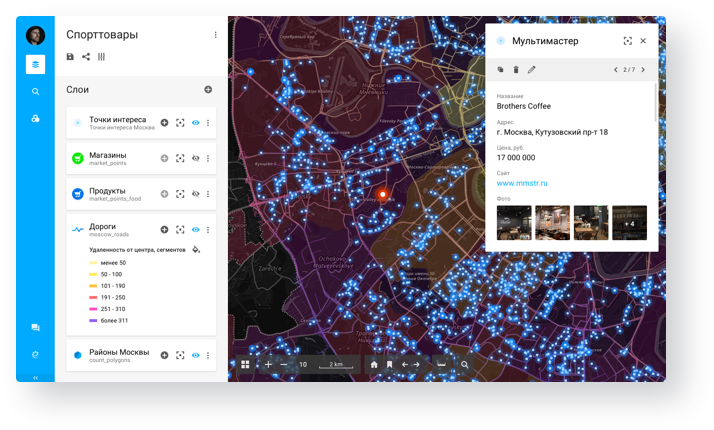
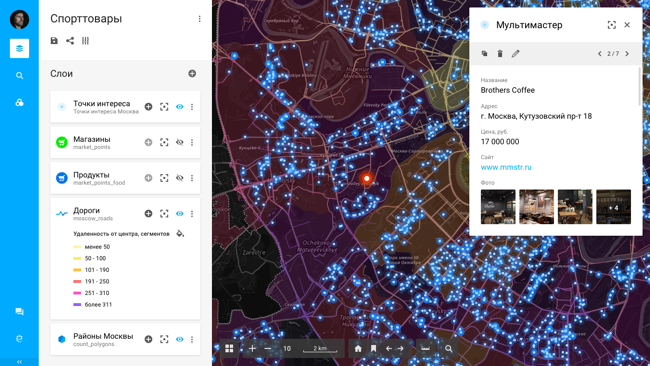
animation evergis online

diff --git a/src/pages/evergisOnline/index.js b/src/pages/evergisOnline/index.js
@@ -13,14 +13,31 @@ import { Footer } from "../../components/EvergisOnlineLongread/Footer/Footer";
 import { HeaderRightSide } from "../../components/EvergisOnlineLongread/HeaderRightSide/HeaderRightSide";
 import { getPixelRatioPropName } from "../../utils/utils";
 
-import screen from "../../img/portfolio/evergisOnline/header/1_app@2x.png";
-import leftCard1 from "../../img/portfolio/evergisOnline/header/2_leftCard-1@2x.png";
-import leftCard2 from "../../img/portfolio/evergisOnline/header/3_leftCard-2@2x.png";
-import leftCard3 from "../../img/portfolio/evergisOnline/header/4_leftCard-3@2x.png";
-import leftCard4 from "../../img/portfolio/evergisOnline/header/5_leftCard-4@2x.png";
-import leftCard5 from "../../img/portfolio/evergisOnline/header/6_leftCard-5@2x.png";
-import rightCard from "../../img/portfolio/evergisOnline/header/7_rightCard@2x.png";
-import point from "../../img/portfolio/evergisOnline/header/8_point@2x.png";
+import patternImg from '../../img/portfolio/evergisOnline/header/pattern.png';
+import appX1 from "../../img/portfolio/evergisOnline/header/app/app.png";
+import appX2 from "../../img/portfolio/evergisOnline/header/app/app@2x.png";
+import appX3 from "../../img/portfolio/evergisOnline/header/app/app@3x.png";
+import leftCard1X1 from "../../img/portfolio/evergisOnline/header/leftCard-1/leftCard-1.png";
+import leftCard1X2 from "../../img/portfolio/evergisOnline/header/leftCard-1/leftCard-1@2x.png";
+import leftCard1X3 from "../../img/portfolio/evergisOnline/header/leftCard-1/leftCard-1@3x.png";
+import leftCard2X1 from "../../img/portfolio/evergisOnline/header/leftCard-2/leftCard-2.png";
+import leftCard2X2 from "../../img/portfolio/evergisOnline/header/leftCard-2/leftCard-2@2x.png";
+import leftCard2X3 from "../../img/portfolio/evergisOnline/header/leftCard-2/leftCard-2@3x.png";
+import leftCard3X1 from "../../img/portfolio/evergisOnline/header/leftCard-3/leftCard-3.png";
+import leftCard3X2 from "../../img/portfolio/evergisOnline/header/leftCard-3/leftCard-3@2x.png";
+import leftCard3X3 from "../../img/portfolio/evergisOnline/header/leftCard-3/leftCard-3@3x.png";
+import leftCard4X1 from "../../img/portfolio/evergisOnline/header/leftCard-4/leftCard-4.png";
+import leftCard4X2 from "../../img/portfolio/evergisOnline/header/leftCard-4/leftCard-4@2x.png";
+import leftCard4X3 from "../../img/portfolio/evergisOnline/header/leftCard-4/leftCard-4@3x.png";
+import leftCard5X1 from "../../img/portfolio/evergisOnline/header/leftCard-5/leftCard-5.png";
+import leftCard5X2 from "../../img/portfolio/evergisOnline/header/leftCard-5/leftCard-5@2x.png";
+import leftCard5X3 from "../../img/portfolio/evergisOnline/header/leftCard-5/leftCard-5@3x.png";
+import rightCardX1 from "../../img/portfolio/evergisOnline/header/rightCard/rightCard.png";
+import rightCardX2 from "../../img/portfolio/evergisOnline/header/rightCard/rightCard@2x.png";
+import rightCardX3 from "../../img/portfolio/evergisOnline/header/rightCard/rightCard@3x.png";
+import pointX1 from "../../img/portfolio/evergisOnline/header/point/point.png";
+import pointX2 from "../../img/portfolio/evergisOnline/header/point/point@2x.png";
+import pointX3 from "../../img/portfolio/evergisOnline/header/point/point@3x.png";
 
 import { ReactComponent as Ic1 } from "../../img/portfolio/evergisOnline/features-icons/ic-1.svg";
 import { ReactComponent as Ic2 } from "../../img/portfolio/evergisOnline/features-icons/ic-2.svg";
@@ -31,7 +48,16 @@ import { ReactComponent as Ic6 } from "../../img/portfolio/evergisOnline/feature
 
 import styles, { EvergisOnlineContainer, FiguresTitle } from "../../styles/evergisOnline";
 
-const images = [screen, leftCard1, leftCard2, leftCard3, leftCard4, leftCard5, rightCard, point];
+const images = [
+  { x1: appX1, x2: appX2, x3: appX3 },
+  { x1: leftCard1X1, x2: leftCard1X2, x3: leftCard1X3 },
+  { x1: leftCard2X1, x2: leftCard2X2, x3: leftCard2X3 },
+  { x1: leftCard3X1, x2: leftCard3X2, x3: leftCard3X3 },
+  { x1: leftCard4X1, x2: leftCard4X2, x3: leftCard4X3 },
+  { x1: leftCard5X1, x2: leftCard5X2, x3: leftCard5X3 },
+  { x1: rightCardX1, x2: rightCardX2, x3: rightCardX3 },
+  { x1: pointX1, x2: pointX2, x3: pointX3 },
+];
 
 const justDoIt = [
   { Icon: Ic1, text: "Создавайте веб-карты" },
@@ -59,16 +85,21 @@ class EvergisOnline extends Component {
   render() {
     const { ratio, animate } = this.state;
     const { location, projectId } = this.props;
+
     const evergisOnline = getProject({ projectId });
     const { longreadImages } = evergisOnline;
+
+    const imagesWithRatio = images.map(img => img[ratio]);
 
     return (
       <>
         <Header
-          images={images}
+          images={imagesWithRatio}
           onLoad={() => this.setState({ animate: true })}
           animate={animate}
-          rightSide={<HeaderRightSide animate={animate} images={images} />}
+          rightSide={<HeaderRightSide animate={animate} images={imagesWithRatio} />}
+          containerClassName={styles.header}
+          backgroundImage={`url(${patternImg})`}
           leftSideClassName={styles.headerLeftSide}
           projectId={projectId}
           location={location}

diff --git a/src/routes/portfolio.js b/src/routes/portfolio.js
@@ -1,10 +1,10 @@
 // portfolio screenshots
-import mspX1 from "../img/portfolio/slide-screenshots/msp/bitmap.png";
-import mspX2 from "../img/portfolio/slide-screenshots/msp/bitmap@2x.png";
-import mspX3 from "../img/portfolio/slide-screenshots/msp/bitmap@3x.png";
-import geomonitoringX1 from "../img/portfolio/slide-screenshots/geomonitoring/bitmap.png";
-import geomonitoringX2 from "../img/portfolio/slide-screenshots/geomonitoring/bitmap@2x.png";
-import geomonitoringX3 from "../img/portfolio/slide-screenshots/geomonitoring/bitmap@3x.png";
+import mspX1 from "../img/portfolio/slide-screenshots/msp/msp.png";
+import mspX2 from "../img/portfolio/slide-screenshots/msp/msp@2x.png";
+import mspX3 from "../img/portfolio/slide-screenshots/msp/msp@3x.png";
+import geomonitoringX1 from "../img/portfolio/slide-screenshots/geomonitoring/bank.png";
+import geomonitoringX2 from "../img/portfolio/slide-screenshots/geomonitoring/bank@2x.png";
+import geomonitoringX3 from "../img/portfolio/slide-screenshots/geomonitoring/bank@3x.png";
 import evergisOnlineX1 from "../img/portfolio/slide-screenshots/evergisOnline/1-ec-header.png";
 import evergisOnlineX2 from "../img/portfolio/slide-screenshots/evergisOnline/1-ec-header@2x.png";
 import evergisOnlineX3 from "../img/portfolio/slide-screenshots/evergisOnline/1-ec-header@3x.png";
@@ -96,7 +96,8 @@ export default {
             },
           ],
           link: "public.everpoint.ru",
-          description: "Картографический сервис для анализа геоданных и создания интерактивных карт",
+          description:
+            "Картографический сервис для анализа геоданных и создания интерактивных карт",
         },
         {
           text: "EverTrack",

diff --git a/src/components/PortfolioSlide/styles.js b/src/components/PortfolioSlide/styles.js
@@ -64,6 +64,9 @@ export const Content = styled("div")`
   @media (max-height: 700px) and (min-width: 1200px) and (orientation: landscape) {
     padding: 0 2rem 2rem 2rem;
   }
+  @media (max-width: 1199px) {
+    padding: 0 2.8rem 2.8rem 2.8rem;
+  }
   @media (max-width: 991px) {
     padding: 0 2rem 2rem 2rem;
   }
@@ -198,16 +201,16 @@ export const Screenshot = styled("img")`
   will-change: opacity, transform;
   position: absolute;
   top: 16%;
-  border-radius: 0.1428rem;
   max-width: 46.4285rem;
   max-height: 41vh;
   height: auto;
   box-shadow: 1.1428rem 1.1428rem 2.2857rem 0 rgba(50, 57, 69, 0.25);
-  @media (max-height: 700px) and (min-width: 1200px) and (orientation: landscape) {
-    top: 10%;
-  }
+  border-radius: 0.2857rem;
   @media (max-width: 1199px) {
     max-width: 100%;
+  }
+  @media (min-width: 1024px) and (max-width: 1024px) {
+    top: 14%;
   }
   @media (max-width: 991px) {
     top: 18%;

diff --git a/src/styles/jobs.js b/src/styles/jobs.js
@@ -14,6 +14,11 @@ const styles = css`
         height: 100%;
       }
     }
+    @media (max-width: 1314px) {
+      > section:last-child {
+        height: 27.4rem;
+      }
+    }
     @media (max-width: 1199px) {
       justify-content: flex-start;
       > section:first-child {
@@ -23,6 +28,7 @@ const styles = css`
         }
       }
       > section:last-child {
+        height: 22rem;
         display: flex;
         justify-content: center;
         flex-grow: 1;
@@ -41,6 +47,7 @@ const styles = css`
 
     @media (max-width: 991px) {
       > section:last-child {
+        height: 100%;
         max-height: 22.4285rem;
         > div {
           width: 100%;

diff --git a/src/components/PortfolioSlide/Content.js b/src/components/PortfolioSlide/Content.js
@@ -31,7 +31,7 @@ export class Crutch extends PureComponent {
         </Title>
         <Description style={{ color }}>
           {description ||
-            "Lorem ipsum dolor sit amet, consectetur adipisicing elit. Aperiam eaque eligendi iusto labore nisi quas. Lorem ipsum dolor sit amet. Consectetur adi. "}
+            "Lorem ipsum dolor sit amet, consectetur adipisicing elit. Aperiam eaque eligendi iusto labore nisi quas."}
         </Description>
         <GoNextLink className={cn(isMobileMsp ? styles.mobileMsp : styles.white)}>
           Подробнее

diff --git a/src/components/EvergisOnlineLongread/HeaderRightSide/styles.js b/src/components/EvergisOnlineLongread/HeaderRightSide/styles.js
@@ -1,6 +1,7 @@
 import styled from "astroturf";
 
 export const LayersBlock = styled("section")`
+  position: relative;
   width: 100%;
   height: 100%;
   > img {
@@ -34,10 +35,10 @@ export const LayersBlock = styled("section")`
       top: 20%;
     }
     &:nth-child(8) {
-      transition-delay: 800ms;
+      transition-delay: 1s;
     }
     &:nth-child(9) {
-      transition-delay: 800ms;
+      transition-delay: 1s;
     }
   }
   &.animate {

diff --git a/src/styles/evergisOnline.js b/src/styles/evergisOnline.js
@@ -36,6 +36,20 @@ const styles = css`
       }
     }
   }
+  .header {
+    position: relative;
+    &:before {
+      content: "";
+      position: absolute;
+      top: 0;
+      left: 0;
+      width: 100%;
+      height: 100%;
+      background-image: url(../img/portfolio/evergisOnline/header/pattern.png);
+      background-position: top;
+      background-size: contain;
+    }
+  }
   .headerLeftSide {
     transition-delay: 0ms;
   }
